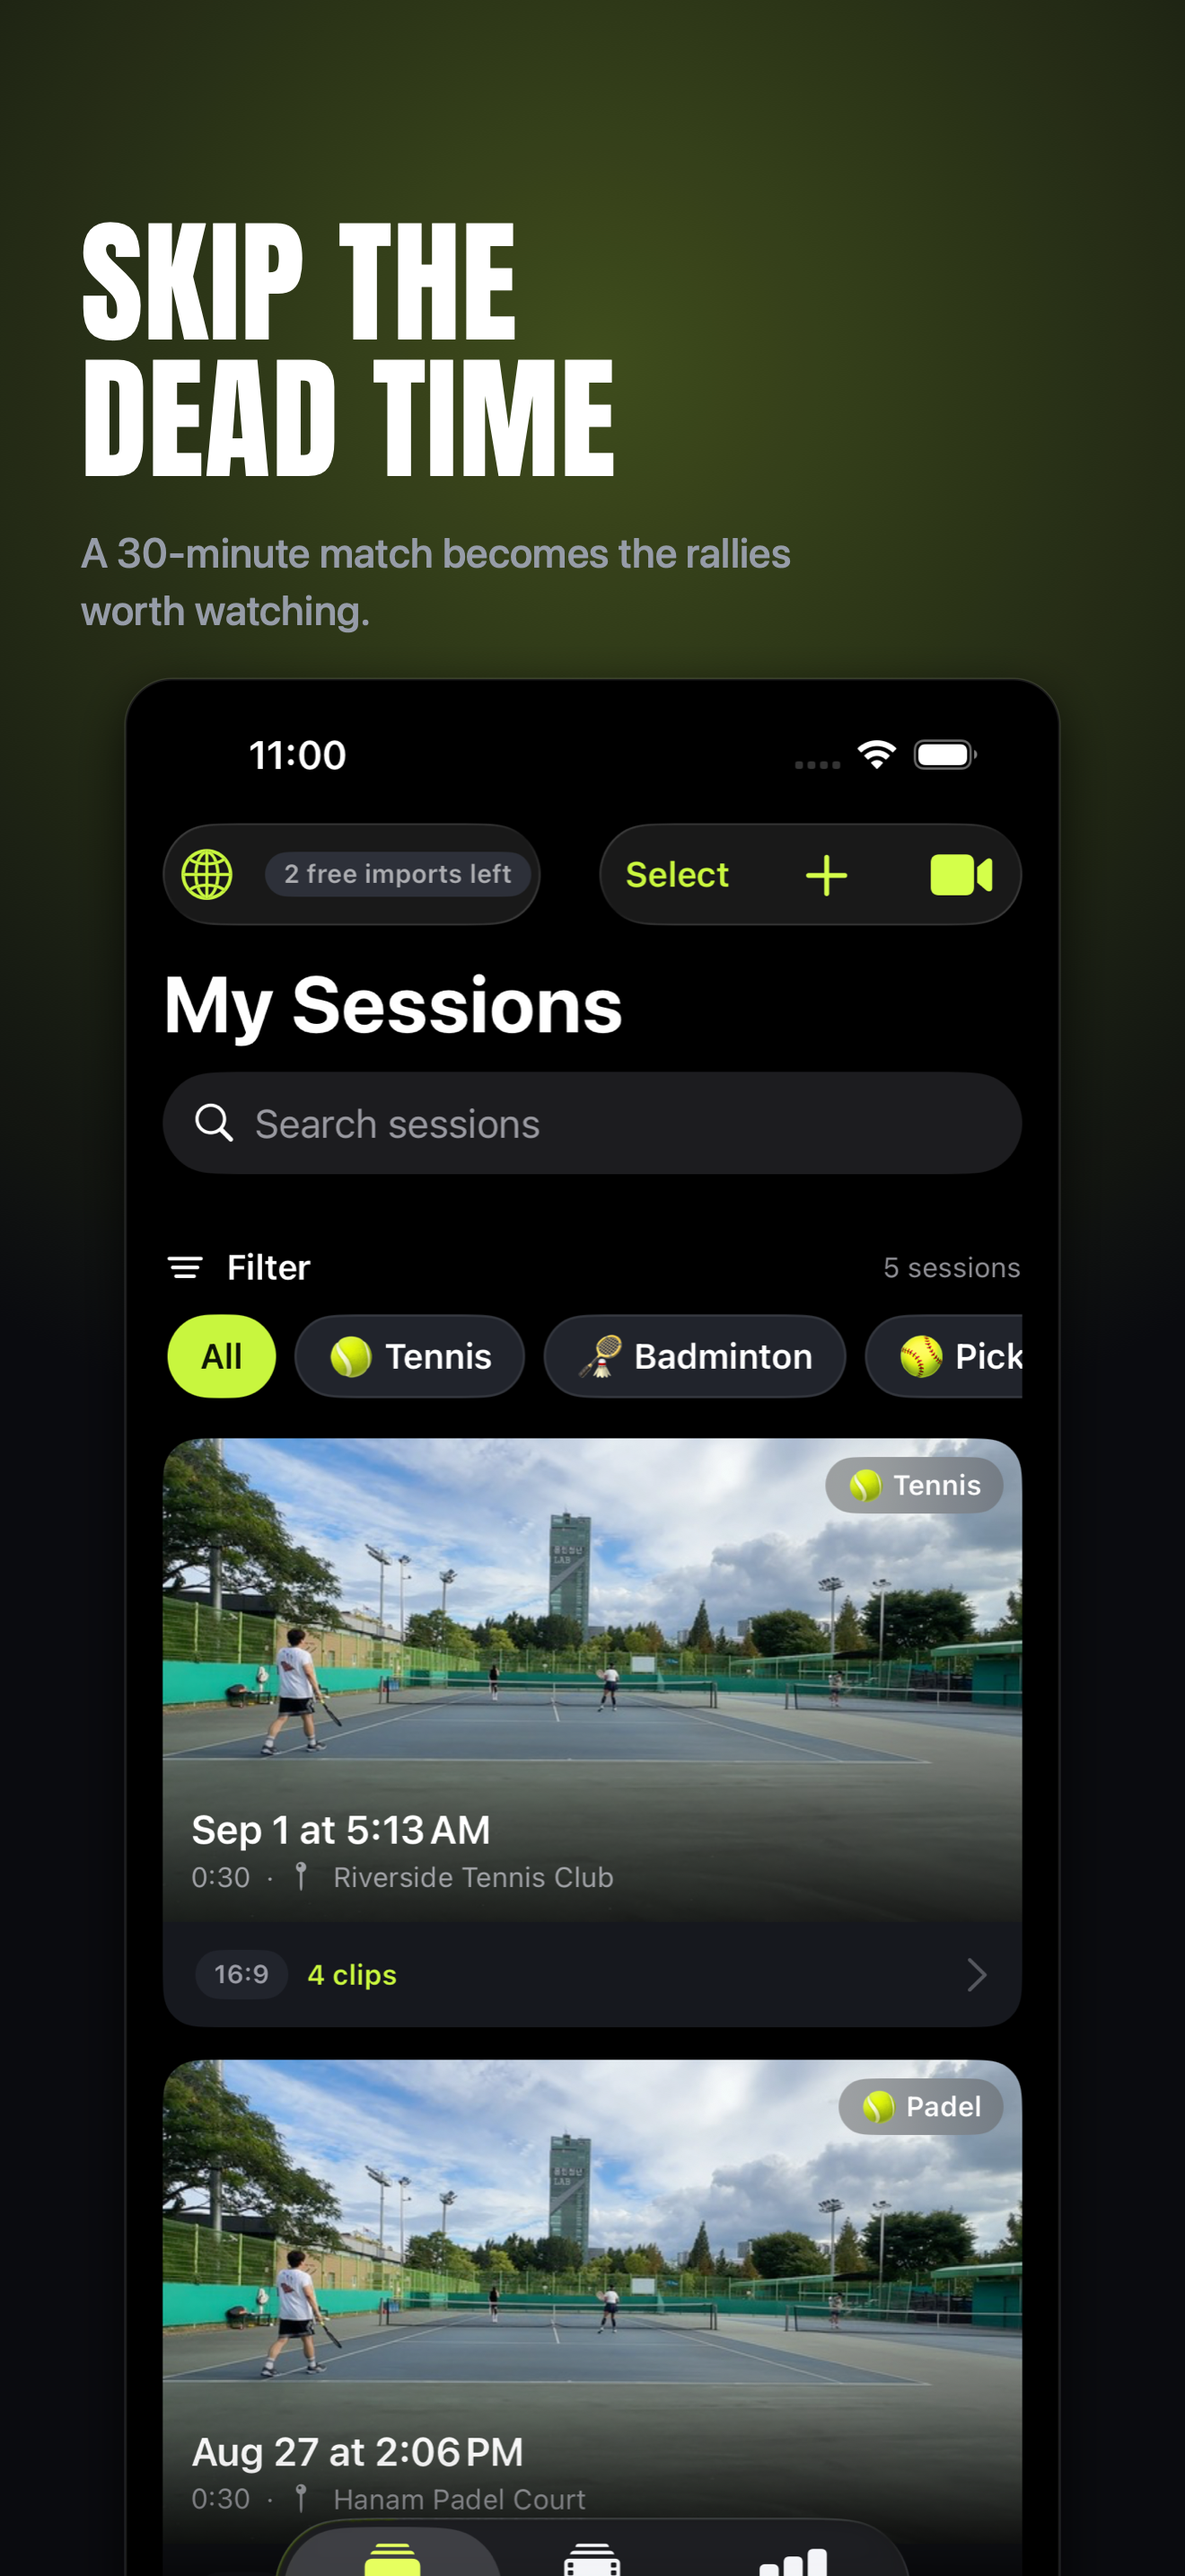
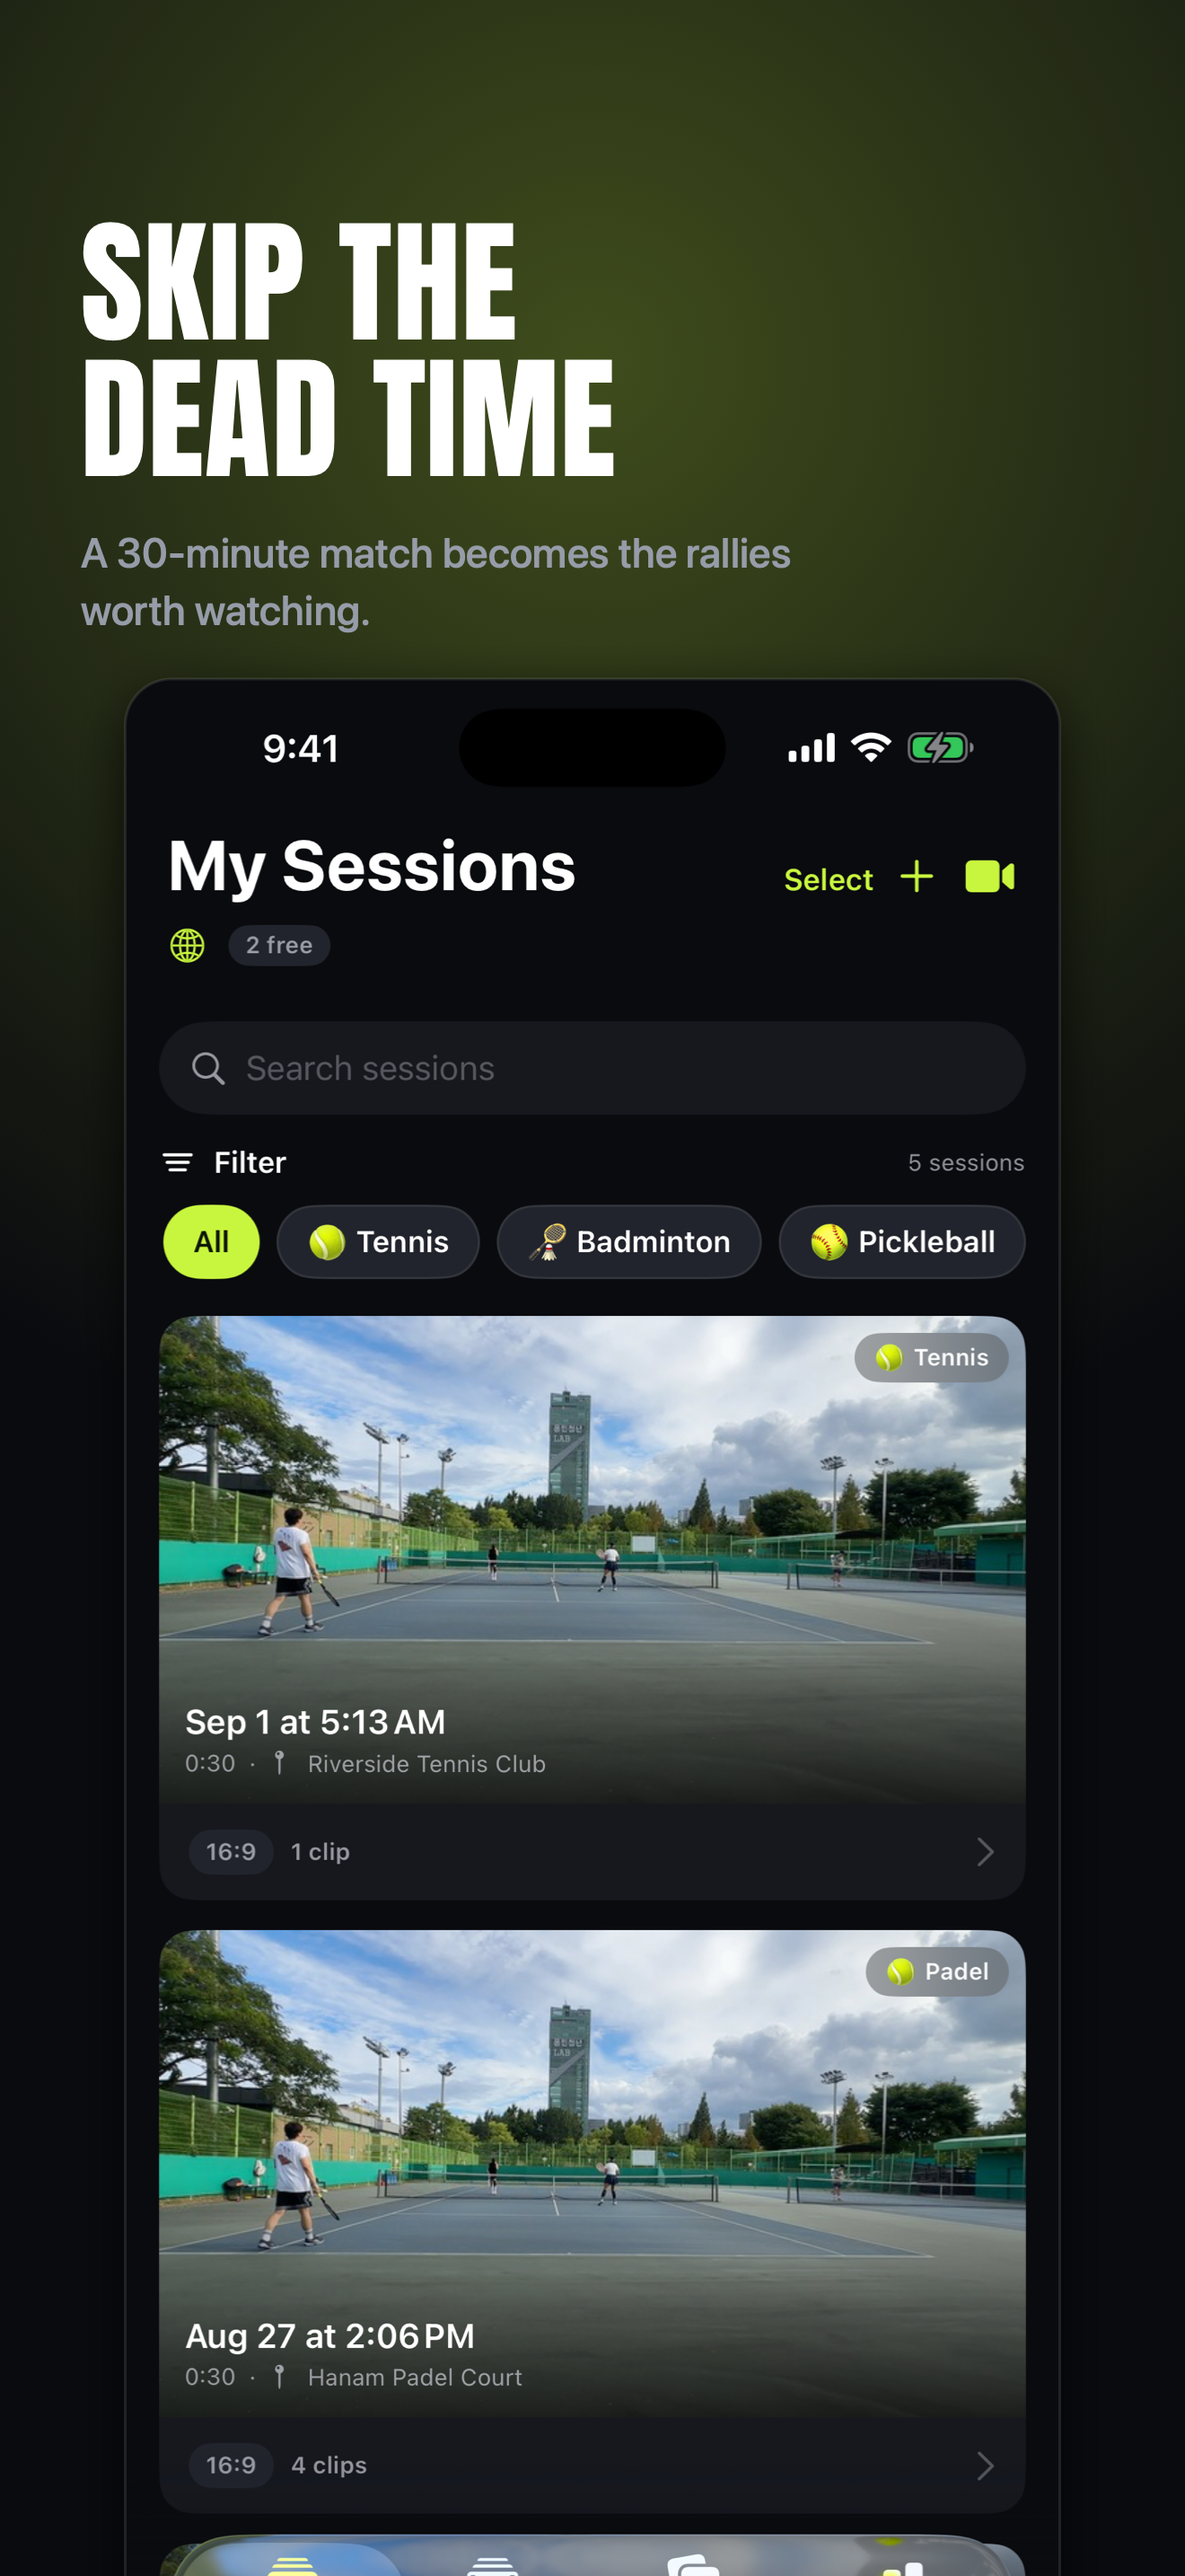
개인정보 처리방침 페이지를 만들고 스크린샷 두 장을 현재 UI로 다시 만든다
정책 원문이 저장소 밖에 있었다. 앱이 실제로 하는 일과 어긋나면 5.1.1
거절 사유가 되는데, 어긋났는지 확인하려면 원문이 코드 옆에 있어야 한다.
`docs/privacy.html`은 인앱 개인정보 화면과 같은 다섯 가지를 같은 순서로
말한다 — 특히 좌표 하나가 애플 지오코더로 나간다는 사실을 숨기지 않는다.
"아무것도 업로드하지 않는다"는 문장은 쓰지 않았다.

스크린샷 2·3번은 9월 4일 촬영본이라 그 뒤의 액센트 정리가 반영돼 있지
않았다. "4 of 4 tagged"와 클립 개수가 아직 볼트색이었다. 데모 데이터를
큰 화면 시뮬레이터로 옮기고 상태바를 정리해 같은 구도로 다시 찍었다.

4번(시즌)은 그대로 둔다. 여기도 아이콘 몇 개와 점수 색이 달라졌지만,
지금 데이터로 다시 찍으면 "이번 달 1경기 1랠리"가 되어 앱을 실제보다
빈약하게 보이게 한다. 색 차이보다 그쪽이 더 부정확하다.

diff --git a/docs/privacy.html b/docs/privacy.html
@@ -1,0 +1,148 @@
+<!doctype html>
+<html lang="en">
+<head>
+<meta charset="utf-8">
+<meta name="viewport" content="width=device-width, initial-scale=1">
+<title>Ribatto — Privacy Policy</title>
+<style>
+  :root { color-scheme: light dark; }
+  body {
+    margin: 0 auto; padding: 40px 20px 80px; max-width: 720px;
+    font: 16px/1.65 -apple-system, BlinkMacSystemFont, "Segoe UI", Roboto, sans-serif;
+    color: #16181e; background: #fff;
+  }
+  @media (prefers-color-scheme: dark) {
+    body { color: #e8eaef; background: #0a0b0f; }
+    h1, h2 { color: #fff; }
+    .meta, footer { color: #9aa0ac; }
+    hr { border-color: #2a2d36; }
+  }
+  h1 { font-size: 28px; margin: 0 0 6px; }
+  h2 { font-size: 19px; margin: 34px 0 8px; }
+  .meta { color: #667; font-size: 14px; margin: 0 0 28px; }
+  p, li { margin: 8px 0; }
+  ul { padding-left: 22px; }
+  hr { border: 0; border-top: 1px solid #e3e5ea; margin: 48px 0; }
+  footer { font-size: 14px; color: #667; margin-top: 40px; }
+  code { font-size: 14px; }
+</style>
+</head>
+<body>
+
+<h1>Ribatto — Privacy Policy</h1>
+<p class="meta">Last updated: 7 September 2026</p>
+
+<p>Ribatto finds the rallies in a racket-sport video and turns them into clips. All of that
+happens on your iPhone. This policy explains, in plain terms, what the app does with your
+data — and what it does not.</p>
+
+<h2>We collect nothing</h2>
+<p>Ribatto has no server, no account system and no analytics. The developer receives no
+personal data from the app, cannot see your videos, and has no way to identify you.</p>
+
+<h2>Your video stays on the device</h2>
+<p>Rally detection, cropping, player tracking, rendering and export all run on your iPhone.
+Your videos and their audio are never uploaded — there is no server to upload them to. Clips
+you make are stored inside the app, and go to your Photos library only when you save them.</p>
+
+<h2>Photos, camera and microphone</h2>
+<ul>
+  <li><strong>Photos</strong> — the app reads the match video you pick, and writes finished
+      clips back when you ask it to. It does not read anything you have not selected.</li>
+  <li><strong>Camera and microphone</strong> — used only while you are recording a match
+      inside the app. The recording is saved like any other video on your device.</li>
+</ul>
+
+<h2>Court names (the one network call about your content)</h2>
+<p>If a video carries a GPS tag from the camera that recorded it, the app sends that single
+coordinate to Apple's geocoding service once, to turn it into a readable court name. Nothing
+else about the video is sent, the result is not stored anywhere but on your device, and the
+developer never sees it. You can edit or clear the court name at any time. Apple's handling
+of that request is covered by
+<a href="https://www.apple.com/legal/privacy/">Apple's Privacy Policy</a>.</p>
+
+<h2>Purchases</h2>
+<p>Ribatto Pro is a one-time purchase handled entirely by the App Store. The app never sees
+your payment details; it only records whether the purchase is active. Restoring the purchase
+on another device is handled by Apple through your Apple Account.</p>
+
+<h2>No tracking</h2>
+<p>No analytics SDKs, no advertising, no third-party trackers, no device identifiers, and no
+data is shared with anyone for any purpose.</p>
+
+<h2>Children</h2>
+<p>The app collects no personal data from anyone, including children under 13.</p>
+
+<h2>Your control</h2>
+<p>Everything the app holds lives on your device. Deleting a session removes its video copy
+and clips; deleting the app removes all of it. There is nothing held elsewhere for us to
+delete on request.</p>
+
+<h2>Changes</h2>
+<p>If this policy changes, the new version will be posted at this address with an updated
+date above.</p>
+
+<h2>Contact</h2>
+<!-- TODO: 공개하기 전에 실제 연락처로 바꾸세요. 애플은 동작하는 연락 수단을 요구합니다. -->
+<p>Questions about this policy: <a href="mailto:CONTACT@EXAMPLE.COM">CONTACT@EXAMPLE.COM</a></p>
+
+<hr>
+
+<h1>Ribatto — 개인정보 처리방침</h1>
+<p class="meta">최종 수정: 2026년 9월 7일</p>
+
+<p>Ribatto는 라켓 스포츠 영상에서 랠리를 찾아 클립으로 만듭니다. 이 모든 과정은 사용자의
+아이폰 안에서 이루어집니다. 이 문서는 앱이 데이터를 어떻게 다루는지, 그리고 무엇을 하지
+않는지를 설명합니다.</p>
+
+<h2>수집하는 정보가 없습니다</h2>
+<p>Ribatto에는 서버도, 계정 시스템도, 분석 도구도 없습니다. 개발자는 앱으로부터 어떤
+개인정보도 받지 않으며, 사용자의 영상을 볼 수 없고, 사용자를 식별할 방법도 없습니다.</p>
+
+<h2>영상은 기기 안에 머뭅니다</h2>
+<p>랠리 감지, 크롭, 인물 추적, 렌더링, 내보내기가 모두 아이폰에서 실행됩니다. 영상과 소리는
+업로드되지 않습니다 — 업로드할 서버 자체가 없습니다. 만들어진 클립은 앱 안에 저장되며,
+사용자가 저장을 누를 때만 사진 앱으로 나갑니다.</p>
+
+<h2>사진·카메라·마이크</h2>
+<ul>
+  <li><strong>사진</strong> — 사용자가 고른 경기 영상을 읽고, 완성된 클립을 저장할 때
+      씁니다. 고르지 않은 항목은 읽지 않습니다.</li>
+  <li><strong>카메라·마이크</strong> — 앱 안에서 경기를 촬영할 때만 사용합니다. 촬영본은
+      기기의 다른 영상과 동일하게 저장됩니다.</li>
+</ul>
+
+<h2>코트 이름 (기기 밖으로 나가는 유일한 요청)</h2>
+<p>영상에 촬영 기기가 남긴 GPS 정보가 있으면, 앱은 그 좌표 하나를 애플의 지오코딩 서비스에
+한 번 보내 읽을 수 있는 장소 이름으로 바꿉니다. 영상에 관한 다른 정보는 전송되지 않고,
+결과는 기기에만 저장되며, 개발자는 이를 볼 수 없습니다. 코트 이름은 언제든 직접 수정하거나
+지울 수 있습니다. 이 요청에 대한 애플의 처리는
+<a href="https://www.apple.com/kr/legal/privacy/">애플 개인정보 처리방침</a>을 따릅니다.</p>
+
+<h2>결제</h2>
+<p>Ribatto Pro는 App Store가 처리하는 1회 결제입니다. 앱은 결제 수단 정보를 볼 수 없으며,
+구매가 유효한지 여부만 기록합니다. 다른 기기에서의 복원은 사용자의 Apple 계정을 통해
+애플이 처리합니다.</p>
+
+<h2>추적하지 않습니다</h2>
+<p>분석 도구, 광고, 서드파티 추적기, 기기 식별자를 쓰지 않으며, 어떤 목적으로도 데이터를
+제3자와 공유하지 않습니다.</p>
+
+<h2>아동</h2>
+<p>앱은 만 13세 미만을 포함한 누구로부터도 개인정보를 수집하지 않습니다.</p>
+
+<h2>사용자의 통제권</h2>
+<p>앱이 가진 모든 것은 기기 안에 있습니다. 세션을 지우면 그 영상 사본과 클립이 함께
+삭제되고, 앱을 삭제하면 전부 사라집니다. 삭제를 요청할 만한 외부 보관본이 없습니다.</p>
+
+<h2>변경</h2>
+<p>이 방침이 바뀌면 위의 수정일과 함께 이 주소에 새 내용이 게시됩니다.</p>
+
+<h2>문의</h2>
+<p>이 방침에 대한 문의: <a href="mailto:CONTACT@EXAMPLE.COM">CONTACT@EXAMPLE.COM</a></p>
+
+<footer>Ribatto is an independent app. Apple is not a sponsor of, and is not involved with,
+this app beyond hosting it on the App Store.</footer>
+
+</body>
+</html>

diff --git a/ios/RELEASE.md b/ios/RELEASE.md
@@ -36,10 +36,29 @@
 
 ## 2. 개인정보 처리방침 페이지를 새 경로로 올린다
 
-- [ ] GitHub Pages의 `/vollio/privacy` → **`/ribatto/privacy`로 재발행**하고, 본문의 앱 이름도 바꾼다.
+- [ ] `docs/privacy.html`을 GitHub Pages로 발행한다(아래 "개인정보 페이지 올리기" 참고).
+      옛 `/vollio/privacy` 페이지는 새 주소가 살아난 뒤에 내린다.
 - [ ] 문구는 코드와 일치해야 한다. **"업로드 없음"이라고 쓰지 말 것** — `PlaceLookup`이 영상의 GPS
       태그를 애플 지오코더로 보내 코트 이름을 받아온다. 올바른 표현은 "영상은 기기 밖으로 나가지 않는다"다.
       (앱 내 개인정보 화면·스토어 문구·IAP 설명은 이미 이 표현으로 통일해 뒀다.)
+
+### 개인정보 페이지 올리기 (GitHub Pages, 무료)
+
+이 저장소는 원격이 없는 로컬 저장소다. 정책 페이지만 올리는 **공개 저장소를 따로 하나** 만드는 것이
+가장 간단하고, 앱 소스는 계속 비공개로 둘 수 있다.
+
+1. github.com → **New repository** → 이름 `ribatto` → **Public** → Create
+2. 저장소 화면에서 **Add file ▸ Upload files** → `docs/privacy.html`을 끌어다 놓고,
+   업로드 후 파일명을 **`index.html`로 바꾼다**(그래야 주소가 짧아진다) → Commit
+3. **Settings ▸ Pages** → Source: **Deploy from a branch** → Branch: `main` / 폴더 `/ (root)` → Save
+4. 1~2분 뒤 주소가 뜬다: `https://<깃허브아이디>.github.io/ribatto/`
+5. 그 주소를 브라우저에서 직접 열어 **본문이 보이는지** 확인한다. App Store Connect의
+   개인정보 URL 칸에는 이 주소를 넣는다.
+
+> `github.com/<아이디>/<저장소>/blob/...` 형태의 주소는 깃허브 UI가 감싸진 페이지라 정책 URL로 쓰지 않는다.
+> 반드시 `github.io` 주소를 쓴다.
+
+파일 안의 `CONTACT@EXAMPLE.COM` 두 곳을 실제 연락 메일로 바꾼 뒤 올린다. 애플은 동작하는 연락 수단을 요구한다.
 
 ## 3. App Store Connect — 앱 레코드
 
@@ -66,7 +85,7 @@
 - [ ] 설명·프로모션 문구·키워드: [../marketing/app-store-copy.md](../marketing/app-store-copy.md)
 - [ ] **키워드에 `VLLO`·`블로`를 넣지 말 것.** 상표 분쟁은 대개 여기서 시작된다.
 - [ ] 스크린샷 5장 업로드 (`marketing/01_hero.png` … `05_s4_clips.png`)
-- [ ] 개인정보 URL: 2번에서 만든 새 주소
+- [ ] 개인정보 URL: 2번에서 만든 새 주소 (원문은 저장소의 `docs/privacy.html`)
 - [ ] App Privacy 설문: **Data Not Collected**. 번들의 `PrivacyInfo.xcprivacy`와 답이 일치해야 한다.
 
 ## 6. 빌드 업로드 · 제출
@@ -81,6 +100,8 @@ DEVELOPER_DIR=/Applications/Xcode.app/Contents/Developer xcodebuild -project ios
       타구음 감지 품질, 긴 영상 렌더 시간, 저장 공간)은 여기서만 보인다. [DEVICE_TESTING.md](DEVICE_TESTING.md)
 - [ ] 심사 정보 메모: [APP_STORE.md 4-1](APP_STORE.md) 문단을 그대로 복사.
       영상 없이는 앱이 비어 보이므로 **심사자용 샘플 영상 링크를 반드시 넣는다.**
+      한 줄 더 넣을 것: **"옆 코트 소리가 섞인 랠리에서는 타구 카운터를 일부러 넣지 않습니다"** —
+      Pro를 켜고 카운터가 안 보이면 심사자가 버그로 신고할 수 있다.
 
 ---
 
